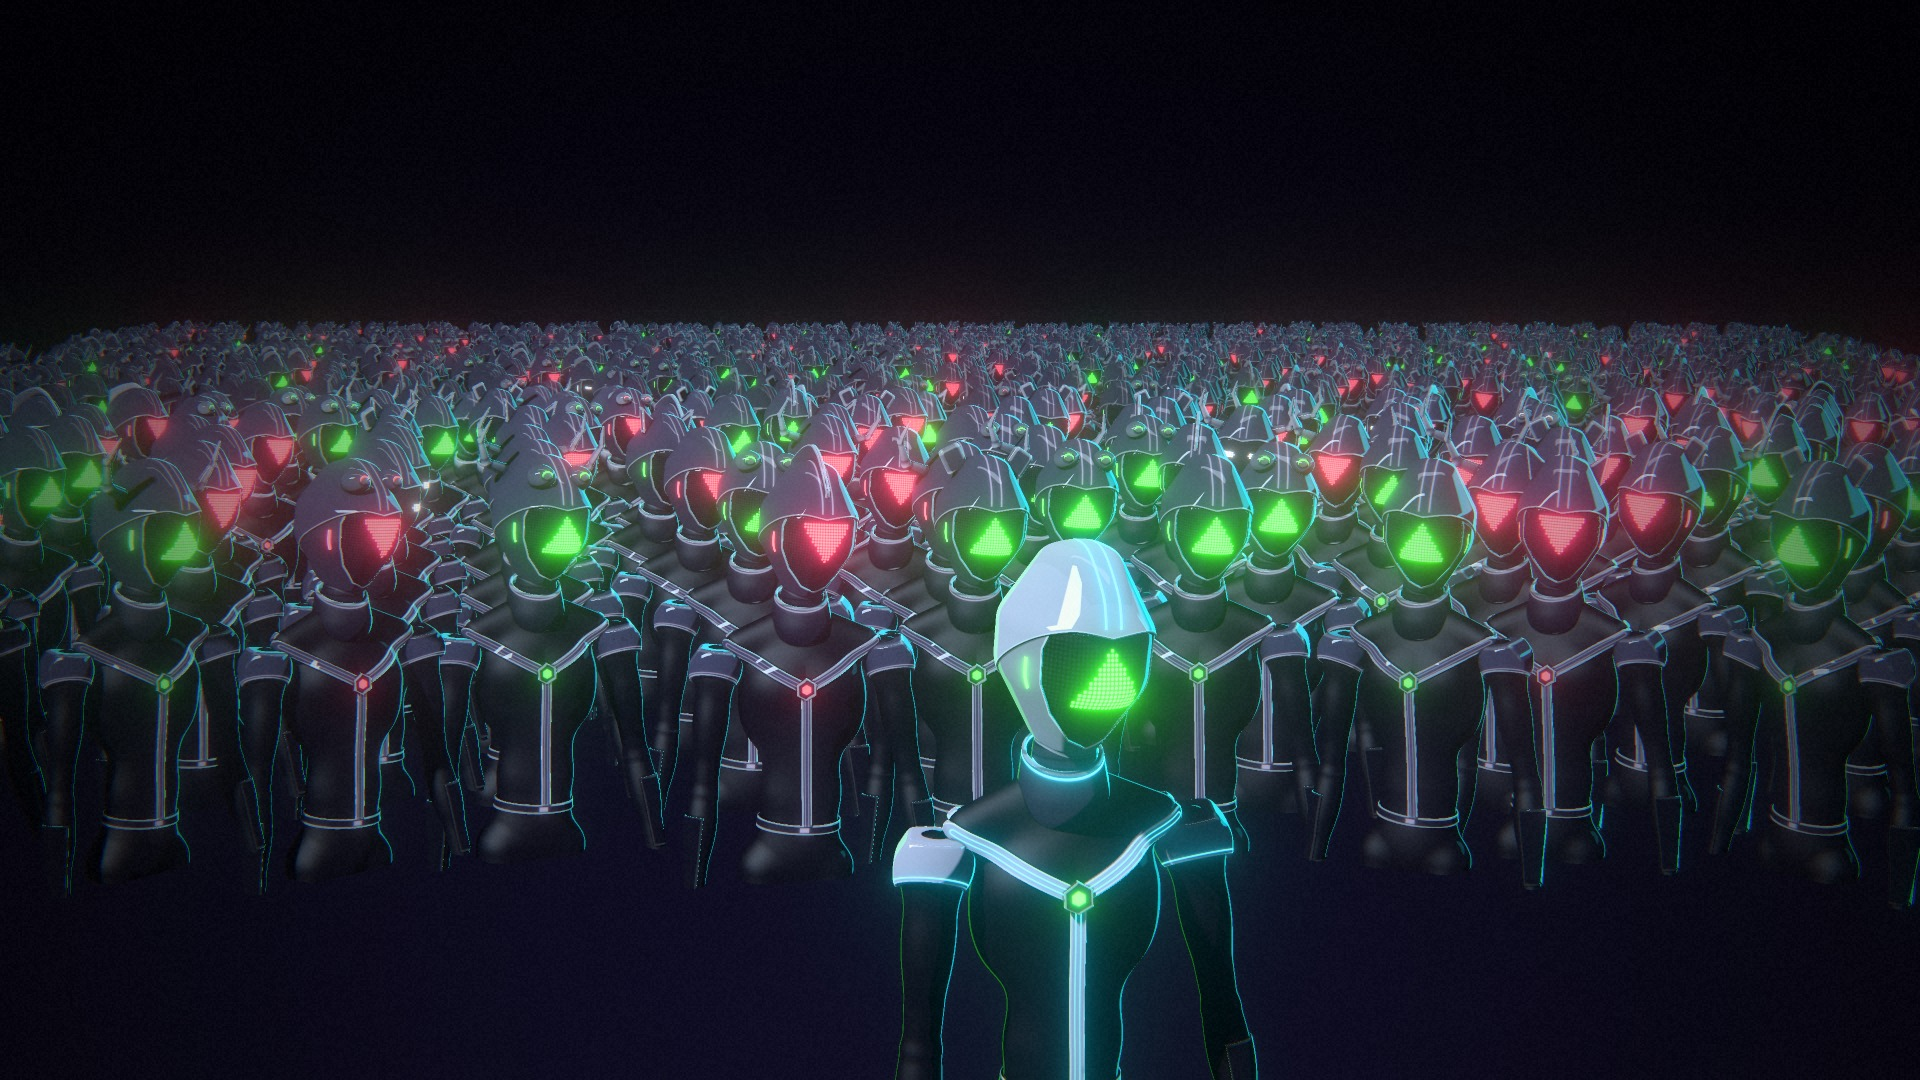
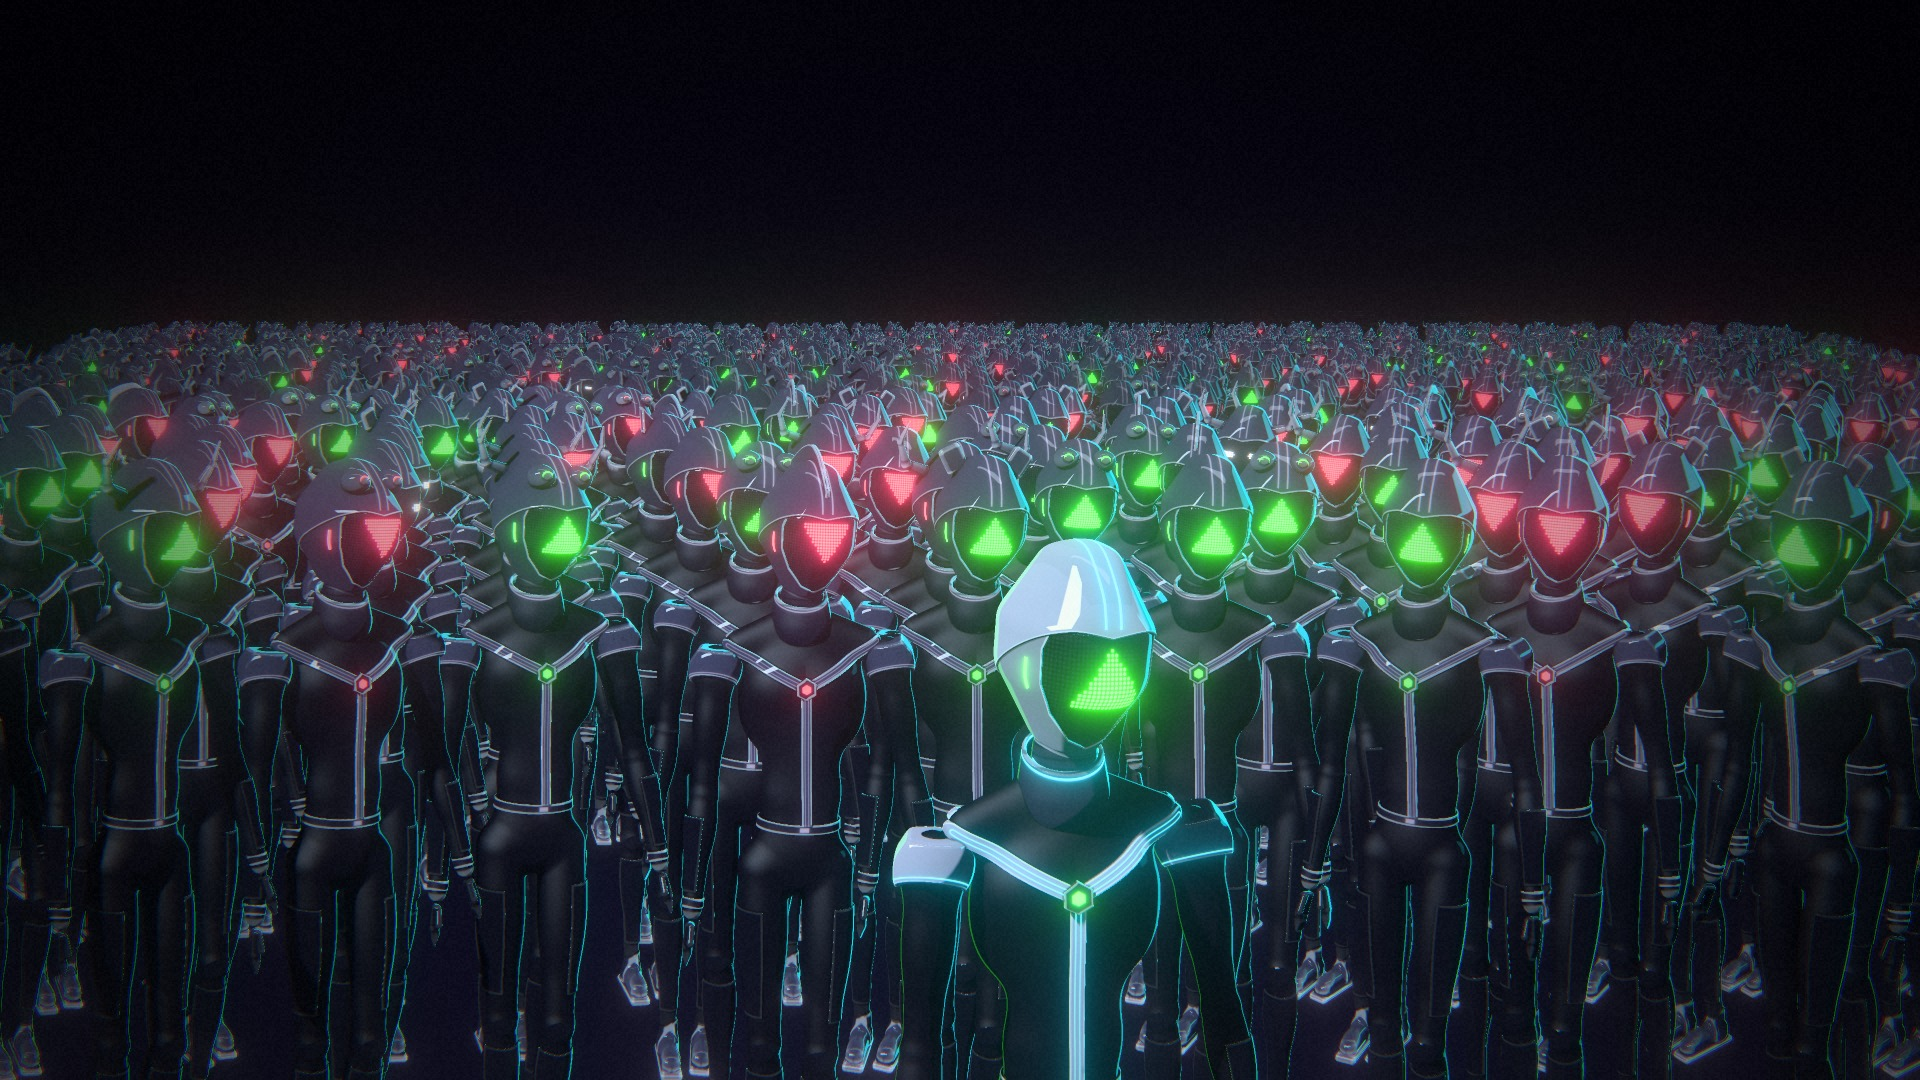
Re-render the style frame with full figures in the front rows
The rows nearest YOU have nothing in front of them, so they now render
as full figures instead of the upper-body crowd box. The cost table in
CHARACTER.md uses the measured render times.

Claude-Session: https://claude.ai/code/session_01SKAvwqpMG4dVywqvSpPb2m

diff --git a/film/CHARACTER.md b/film/CHARACTER.md
@@ -189,10 +189,11 @@ Every frame stays a pure function of its inputs.
 | | |
 |---|---|
 | hero, full figure ~900 px tall, 2x supersampled | ~10 s |
-| head ~330 px | ~0.5-1 s |
-| figure ~200 px (Battle Royale scale) | ~0.2 s |
+| head ~330 px, 2x supersampled | ~2 s |
+| full figure ~200 px tall (Battle Royale scale), 3x supersampled | ~1.5 s |
 | impostor atlas, 672 sprites at 120 px | ~90 s, once |
 | impostor draw | milliseconds each |
+| shader compile | a few seconds, once per page |
 
 The 2D characters were nearly free; these are not. That is the price of real form, turnarounds and
 consistent lighting, and it shapes the integration plan below.
